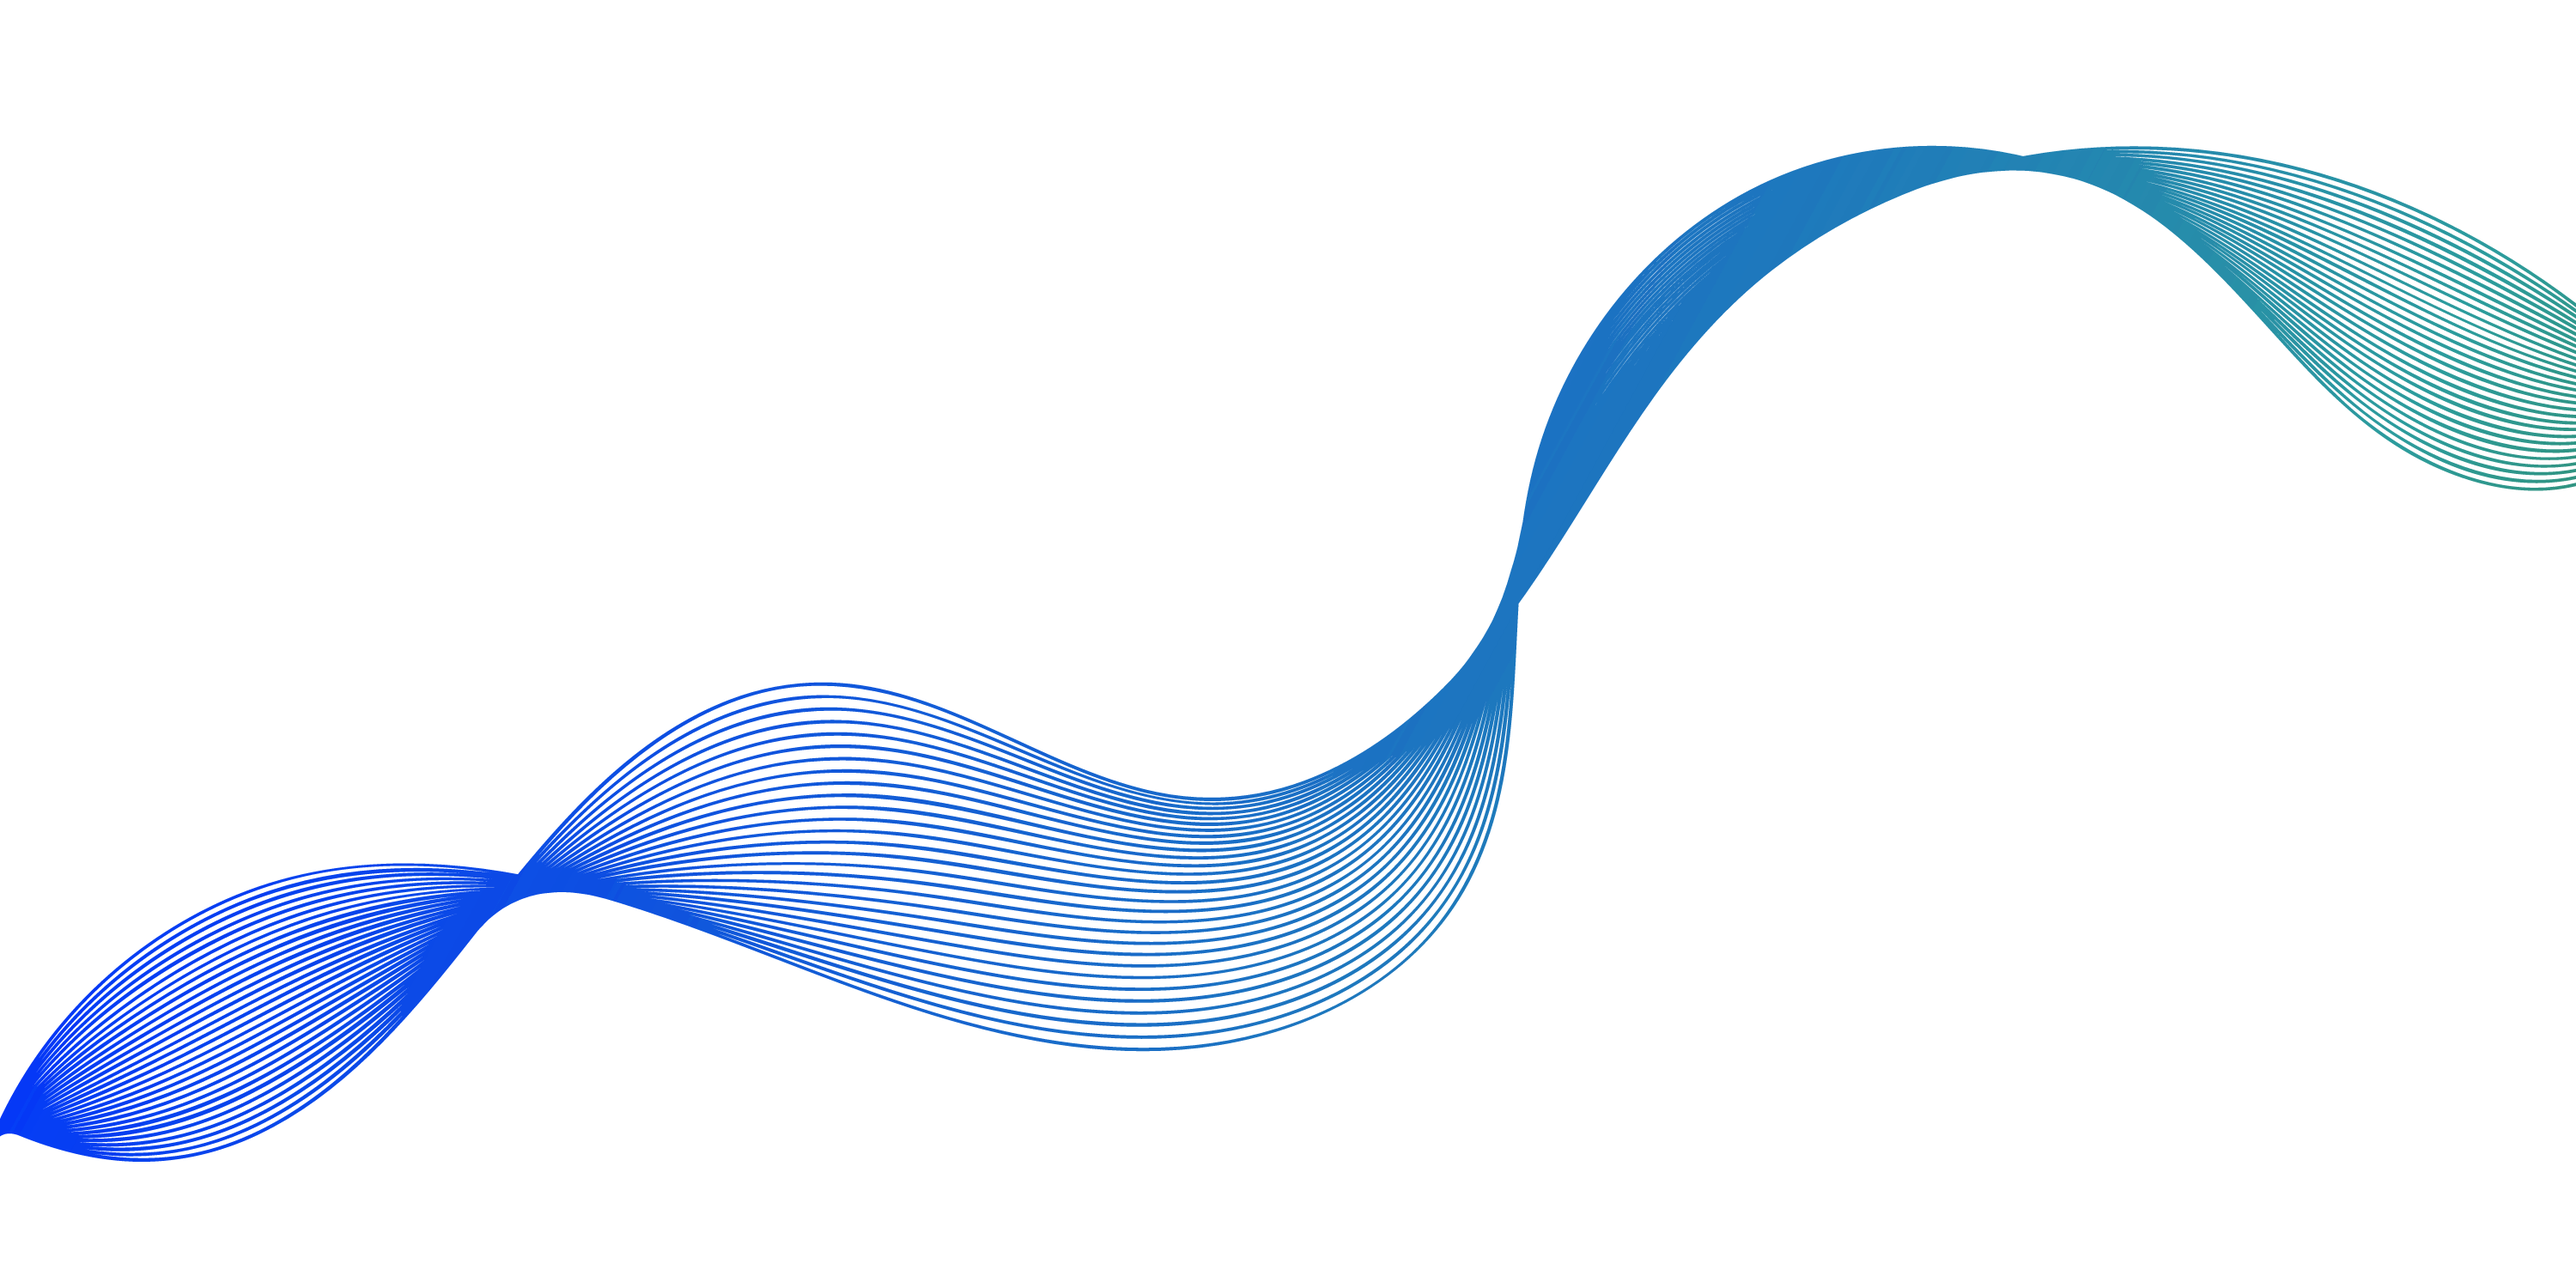
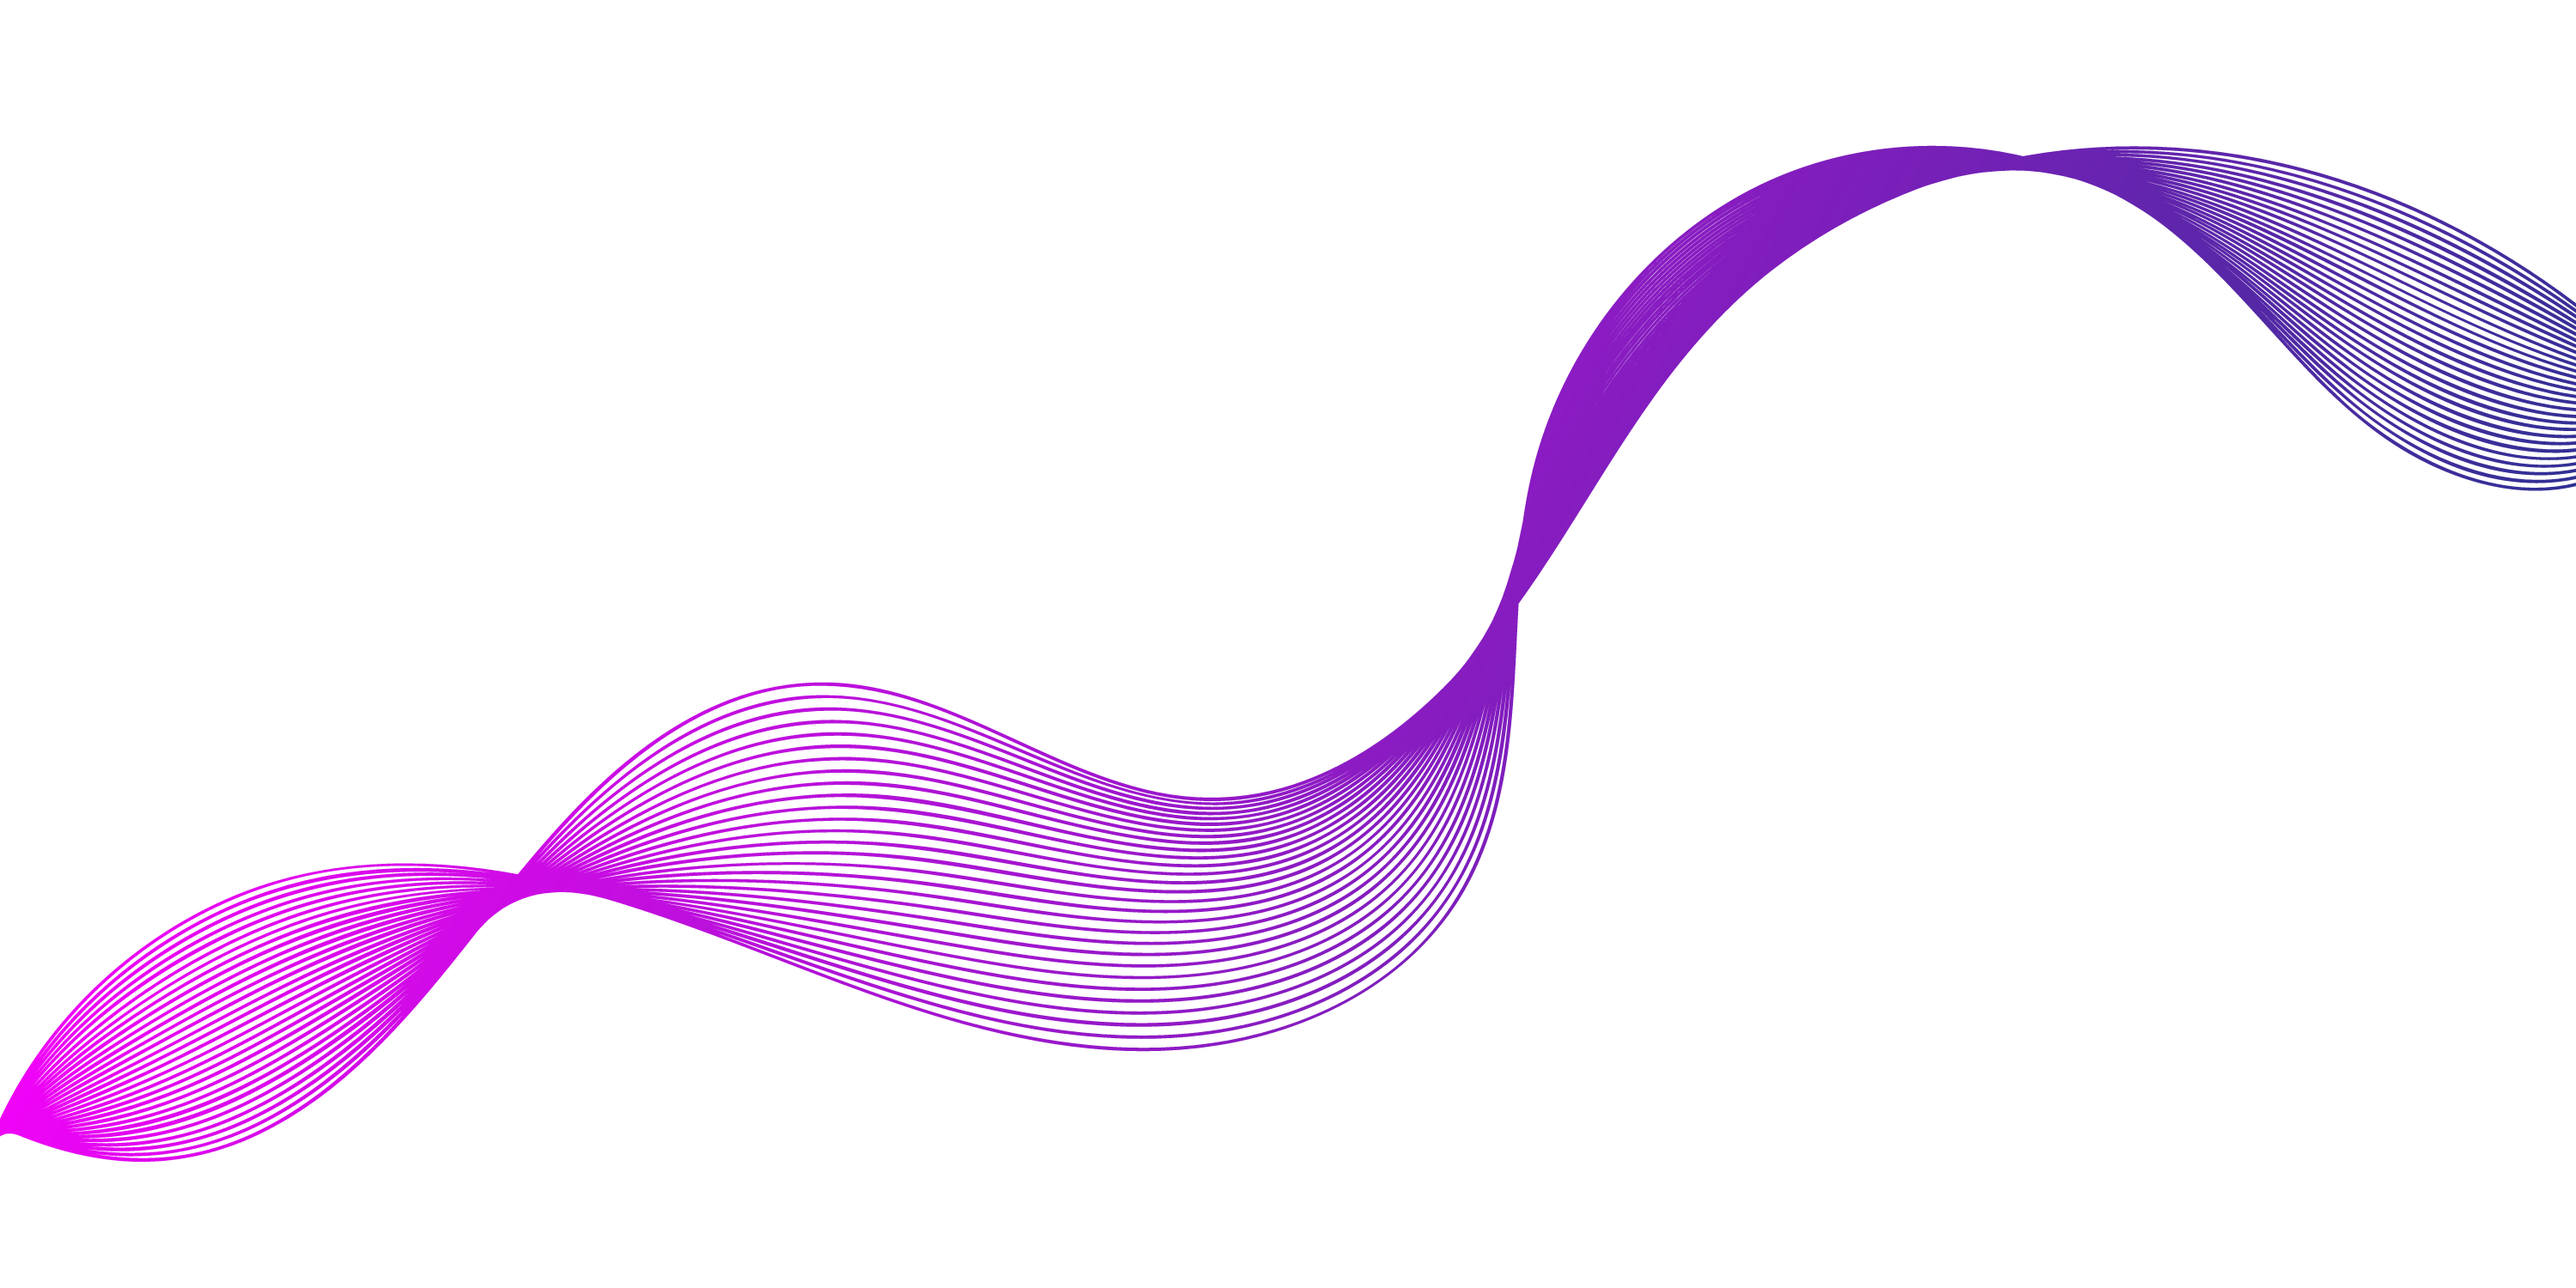
Cores do template, projetos FitProgress e Olho do Bairro, cartões sem prints

Changed region(s): [[0.0, 0.46, 0.589, 0.92], [0.589, 0.092, 1.0, 0.46]]

diff --git a/src/i18n.tsx b/src/i18n.tsx
@@ -50,7 +50,7 @@ const content = {
         {
           title: "Backend & Integrações",
           text: "APIs em Node.js e Express que conectam landing pages, CRM, pagamentos, agendas e mensageria — com filas, webhooks idempotentes, rate limit e LGPD.",
-          chips: ["Node.js", "Express", "JavaScript", "TypeScript", "MySQL", "REST", "GraphQL", "Webhooks", "Java", "Python"],
+          chips: ["Node.js", "Express", "JavaScript", "TypeScript", "MySQL", "REST", "GraphQL", "Webhooks", "Python", "FastAPI", "Java", "Spring Boot", "React"],
         },
         {
           title: "Automação & IA",
@@ -99,28 +99,45 @@ const content = {
       ],
     },
     projects: {
-      title: "Projetos em produção",
-      subtitle: "Usados todos os dias por uma empresa real. O código foi anonimizado para publicação.",
+      title: "Projetos",
+      subtitle: "Sistemas em produção numa empresa real, além de projetos pessoais e acadêmicos.",
       codeLabel: "Ver código",
       moreLabel: "Mais projetos no GitHub →",
       items: [
         {
           name: "Lead Capture API",
-          repo: "lead-capture-api",
+          url: "https://github.com/samis7th/lead-capture-api",
+          badge: "Em produção",
           text: "Recebe os formulários das landing pages, grava no CRM (Monday.com), envia conversões para a Meta (Conversions API) e processa vendas da Hotmart via webhook. Responde na hora e nunca perde um lead, mesmo com o CRM fora do ar.",
           tags: ["Node.js", "Express", "MySQL", "Meta CAPI", "Hotmart", "61 testes"],
         },
         {
           name: "WhatsApp Assistant",
-          repo: "whatsapp-assistant",
+          url: "https://github.com/samis7th/whatsapp-assistant",
+          badge: "Em produção",
           text: "Assistente de pré-atendimento no WhatsApp: qualifica leads por faturamento, agenda reuniões (Calendly + Google Agenda), manda lembretes por WhatsApp e e-mail e roda um sorteio semanal de mentorias.",
           tags: ["Node.js", "ManyChat", "Calendly", "Google Calendar", "Brevo", "306 testes"],
         },
         {
           name: "Admin Dashboard",
-          repo: "admin-dashboard",
+          url: "https://github.com/samis7th/admin-dashboard",
+          badge: "Em produção",
           text: "Painel da equipe com leads em tempo real, gráficos, reuniões, gestão do sorteio e a saúde de cada integração. Login seguro (scrypt, sessão HMAC, CSP) e modo demonstração.",
-          tags: ["Node.js", "JavaScript puro", "SVG charts", "Segurança", "41 testes"],
+          tags: ["Node.js", "JavaScript puro", "Gráficos SVG", "Segurança", "41 testes"],
+        },
+        {
+          name: "FitProgress",
+          url: "https://github.com/samis7th/Fitprogress",
+          badge: "Projeto pessoal",
+          text: "Plataforma full stack de academia: planejamento semanal, execução de treinos, recordes pessoais calculados automaticamente, metas de carga, evolução de peso e registro de refeições. Autenticação e banco no Supabase com RLS, Docker e deploy na AWS.",
+          tags: ["Python", "FastAPI", "React", "Supabase", "Docker", "AWS EC2"],
+        },
+        {
+          name: "Olho do Bairro",
+          url: "https://github.com/Kurzgesagttt/OlhoVivo",
+          badge: "Projeto em equipe · Unilins",
+          text: "Plataforma comunitária para registrar e acompanhar ocorrências urbanas: moradores publicam, votam e comentam num feed do bairro, e supervisores atualizam o status pelo painel. Projeto extensionista de Sistemas Distribuídos.",
+          tags: ["Java 21", "Spring Boot", "JWT", "React", "TypeScript", "PostgreSQL", "Docker"],
         },
       ],
     },
@@ -170,7 +187,7 @@ const content = {
         {
           title: "Backend & Integrations",
           text: "Node.js and Express APIs connecting landing pages, CRM, payments, calendars and messaging — with queues, idempotent webhooks, rate limiting and LGPD compliance.",
-          chips: ["Node.js", "Express", "JavaScript", "TypeScript", "MySQL", "REST", "GraphQL", "Webhooks", "Java", "Python"],
+          chips: ["Node.js", "Express", "JavaScript", "TypeScript", "MySQL", "REST", "GraphQL", "Webhooks", "Python", "FastAPI", "Java", "Spring Boot", "React"],
         },
         {
           title: "Automation & AI",
@@ -219,28 +236,45 @@ const content = {
       ],
     },
     projects: {
-      title: "Production projects",
-      subtitle: "Used every day by a real company. The code was anonymized for publication.",
+      title: "Projects",
+      subtitle: "Systems running in production at a real company, plus personal and academic projects.",
       codeLabel: "View code",
       moreLabel: "More projects on GitHub →",
       items: [
         {
           name: "Lead Capture API",
-          repo: "lead-capture-api",
+          url: "https://github.com/samis7th/lead-capture-api",
+          badge: "In production",
           text: "Receives landing page forms, saves leads to the CRM (Monday.com), sends conversions to Meta (Conversions API) and processes Hotmart sales via webhook. Answers instantly and never loses a lead, even when the CRM is down.",
           tags: ["Node.js", "Express", "MySQL", "Meta CAPI", "Hotmart", "61 tests"],
         },
         {
           name: "WhatsApp Assistant",
-          repo: "whatsapp-assistant",
+          url: "https://github.com/samis7th/whatsapp-assistant",
+          badge: "In production",
           text: "WhatsApp pre-sales assistant: qualifies leads by revenue, books meetings (Calendly + Google Calendar), sends WhatsApp and e-mail reminders and runs a weekly mentoring raffle.",
           tags: ["Node.js", "ManyChat", "Calendly", "Google Calendar", "Brevo", "306 tests"],
         },
         {
           name: "Admin Dashboard",
-          repo: "admin-dashboard",
+          url: "https://github.com/samis7th/admin-dashboard",
+          badge: "In production",
           text: "Team dashboard with real-time leads, charts, meetings, raffle management and the health of every integration. Secure login (scrypt, HMAC sessions, CSP) and demo mode.",
           tags: ["Node.js", "Vanilla JS", "SVG charts", "Security", "41 tests"],
+        },
+        {
+          name: "FitProgress",
+          url: "https://github.com/samis7th/Fitprogress",
+          badge: "Personal project",
+          text: "Full stack gym platform: weekly planning, workout logging, automatically calculated personal records, load goals, body weight tracking and meal logging. Supabase auth and database with RLS, Docker and AWS deployment.",
+          tags: ["Python", "FastAPI", "React", "Supabase", "Docker", "AWS EC2"],
+        },
+        {
+          name: "Olho do Bairro",
+          url: "https://github.com/Kurzgesagttt/OlhoVivo",
+          badge: "Team project · Unilins",
+          text: "Community platform to report and track urban issues: residents post, vote and comment in a neighborhood feed, and supervisors update the status from an admin panel. Extension project for the Distributed Systems course.",
+          tags: ["Java 21", "Spring Boot", "JWT", "React", "TypeScript", "PostgreSQL", "Docker"],
         },
       ],
     },

diff --git a/src/components/Project.tsx b/src/components/Project.tsx
@@ -1,11 +1,8 @@
 import React from "react";
-import shotApi from '../assets/images/painel-inscritos.jpg';
-import shotBot from '../assets/images/painel-mentorias.jpg';
-import shotPanel from '../assets/images/painel-inicio.jpg';
+import { FontAwesomeIcon } from '@fortawesome/react-fontawesome';
+import { faGithub } from '@fortawesome/free-brands-svg-icons';
 import '../assets/styles/Project.scss';
 import { LINKS, useLang } from '../i18n';
-
-const SHOTS = [shotApi, shotBot, shotPanel];
 
 function Project() {
   const { t } = useLang();
@@ -14,18 +11,17 @@ function Project() {
       <h1>{t.projects.title}</h1>
       <p className="section-subtitle">{t.projects.subtitle}</p>
       <div className="projects-grid">
-        {t.projects.items.map((item, i) => {
-          const url = `${LINKS.github}/${item.repo}`;
-          return (
-            <div className="project" key={item.repo}>
-              <a href={url} target="_blank" rel="noreferrer"><img src={SHOTS[i]} className="zoom" alt={item.name} width="100%"/></a>
-              <a href={url} target="_blank" rel="noreferrer"><h2>{item.name}</h2></a>
-              <p>{item.text}</p>
-              <div className="project-tags">{item.tags.map((tag) => <span key={tag}>{tag}</span>)}</div>
-              <a className="project-link" href={url} target="_blank" rel="noreferrer">{t.projects.codeLabel} →</a>
-            </div>
-          );
-        })}
+        {t.projects.items.map((item) => (
+          <div className="project project-card" key={item.url}>
+            <span className={`project-badge${item.badge.match(/produ/i) ? ' live' : ''}`}>{item.badge}</span>
+            <a href={item.url} target="_blank" rel="noreferrer"><h2>{item.name}</h2></a>
+            <p>{item.text}</p>
+            <div className="project-tags">{item.tags.map((tag) => <span key={tag}>{tag}</span>)}</div>
+            <a className="project-link" href={item.url} target="_blank" rel="noreferrer">
+              <FontAwesomeIcon icon={faGithub} /> {t.projects.codeLabel} →
+            </a>
+          </div>
+        ))}
         <a className="project more-card" href={`${LINKS.github}?tab=repositories`} target="_blank" rel="noreferrer">
           <span>{t.projects.moreLabel}</span>
         </a>

diff --git a/src/assets/styles/Project.scss b/src/assets/styles/Project.scss
@@ -64,14 +64,14 @@
         font-size: 0.75rem;
         padding: 3px 10px;
         border-radius: 999px;
-        background: rgba(47, 111, 237, 0.18);
-        color: #9dbbff;
+        background: rgba(80, 0, 202, 0.18);
+        color: #c7adff;
     }
 }
 
 .project-link {
     font-weight: 700;
-    color: #6f9cff !important;
+    color: #a57cff !important;
 }
 
 .more-card {
@@ -86,11 +86,60 @@
 
     span { font-size: 1.2rem; font-weight: 700; }
 
-    &:hover { border-color: #2f6fed; }
+    &:hover { border-color: #5000ca; }
 }
 
 .light-mode {
-    .project-tags span { color: #1f4fb8; background: rgba(47, 111, 237, 0.1); }
-    .project-link { color: #2f6fed !important; }
+    .project-tags span { color: #5000ca; background: rgba(80, 0, 202, 0.1); }
+    .project-link { color: #5000ca !important; }
     .more-card { border-color: rgba(0, 0, 0, 0.15); }
+}
+
+.project-card {
+    display: flex;
+    flex-direction: column;
+    padding: 28px;
+    border-radius: 12px;
+    border: 1px solid rgba(255, 255, 255, 0.12);
+    background: rgba(255, 255, 255, 0.04);
+    transition: transform .2s, border-color .2s;
+
+    &:hover { transform: translateY(-4px); border-color: #5000ca; }
+
+    h2 { margin: 10px 0 6px; }
+    p { flex: 1; line-height: 1.6; }
+    .project-link svg { margin-right: 4px; }
+}
+
+.project-badge {
+    align-self: flex-start;
+    font-family: source-code-pro, Menlo, Monaco, Consolas, monospace;
+    font-size: 0.72rem;
+    font-weight: 700;
+    letter-spacing: 0.03em;
+    padding: 4px 10px;
+    border-radius: 999px;
+    color: #c7adff;
+    background: rgba(80, 0, 202, 0.25);
+
+    &.live {
+        color: #7ee2a8;
+        background: rgba(46, 160, 67, 0.18);
+    }
+
+    &.live::before { content: "● "; }
+}
+
+.light-mode {
+    .project-card {
+        background: white;
+        border-color: rgba(0, 0, 0, 0.1);
+        box-shadow: 0 1px 4px rgba(0, 0, 0, 0.06);
+    }
+    .project-badge { color: #5000ca; background: rgba(80, 0, 202, 0.1); }
+    .project-badge.live { color: #1a7f37; background: rgba(46, 160, 67, 0.12); }
+}
+
+@media (max-width: 700px) {
+    .projects-container .projects-grid .project-card { margin-bottom: 20px; }
 }

diff --git a/src/index.scss b/src/index.scss
@@ -24,7 +24,7 @@ a {
 }
 
 a:hover {
-  color: #2f6fed;
+  color: #5000ca;
   transition: color .15s ease-in-out,background-color .15s ease-in-out,border-color .15s ease-in-out;
 }
 
@@ -104,7 +104,7 @@ p, a, h1, h2, h3, h4, h5, label, button {
   }
 
   a:hover {
-    color: #2f6fed;
+    color: #5000ca;
     transition: color .15s ease-in-out,background-color .15s ease-in-out,border-color .15s ease-in-out;
   }
 
@@ -172,7 +172,7 @@ p, a, h1, h2, h3, h4, h5, label, button {
   letter-spacing: 0.05em;
   transition: background-color .15s, border-color .15s;
 
-  &:hover { border-color: #2f6fed; background: rgba(47, 111, 237, 0.15); }
+  &:hover { border-color: #5000ca; background: rgba(80, 0, 202, 0.15); }
 }
 
 .light-mode {

diff --git a/src/components/Timeline.tsx b/src/components/Timeline.tsx
@@ -20,7 +20,7 @@ function Timeline() {
               contentStyle={i === 0 ? { background: 'white', color: 'rgb(39, 40, 34)' } : undefined}
               contentArrowStyle={i === 0 ? { borderRight: '7px solid white' } : undefined}
               date={item.date}
-              iconStyle={{ background: '#2f6fed', color: 'white' }}
+              iconStyle={{ background: '#5000ca', color: 'white' }}
               icon={<FontAwesomeIcon icon={faBriefcase} />}
             >
               <h3 className="vertical-timeline-element-title">{item.role}</h3>

diff --git a/src/assets/styles/Main.scss b/src/assets/styles/Main.scss
@@ -166,14 +166,14 @@
     padding: 12px 26px;
     border: 0;
     border-radius: 999px;
-    background: #2f6fed;
+    background: #5000ca;
     color: white !important;
     font-size: 1rem;
     font-weight: 700;
     cursor: pointer;
     transition: transform .15s, background-color .15s;
 
-    &:hover { background: #2559c4; transform: translateY(-2px); }
+    &:hover { background: #3d009c; transform: translateY(-2px); }
 }
 
 @media (max-width: 768px) {

diff --git a/src/assets/styles/Contact.scss b/src/assets/styles/Contact.scss
@@ -14,7 +14,7 @@
   }
 
   button:hover {
-    background-color: #2f6fed;
+    background-color: #5000ca;
     color: white;
   }
 
@@ -64,7 +64,7 @@ form {
 
     svg { margin: 0; font-size: 1.3em; }
 
-    &:hover { border-color: #2f6fed; background: rgba(47, 111, 237, 0.15); color: inherit; }
+    &:hover { border-color: #5000ca; background: rgba(80, 0, 202, 0.15); color: inherit; }
   }
 }
 

diff --git a/src/assets/styles/Sections.scss b/src/assets/styles/Sections.scss
@@ -1,4 +1,4 @@
-$accent: #2f6fed;
+$accent: #5000ca;
 
 .section {
   padding: 5% 10%;
@@ -47,7 +47,7 @@ $accent: #2f6fed;
   font-size: 2.6rem;
   font-weight: 800;
   line-height: 1.1;
-  color: #6f9cff;
+  color: #a57cff;
 }
 
 .stat-label {
